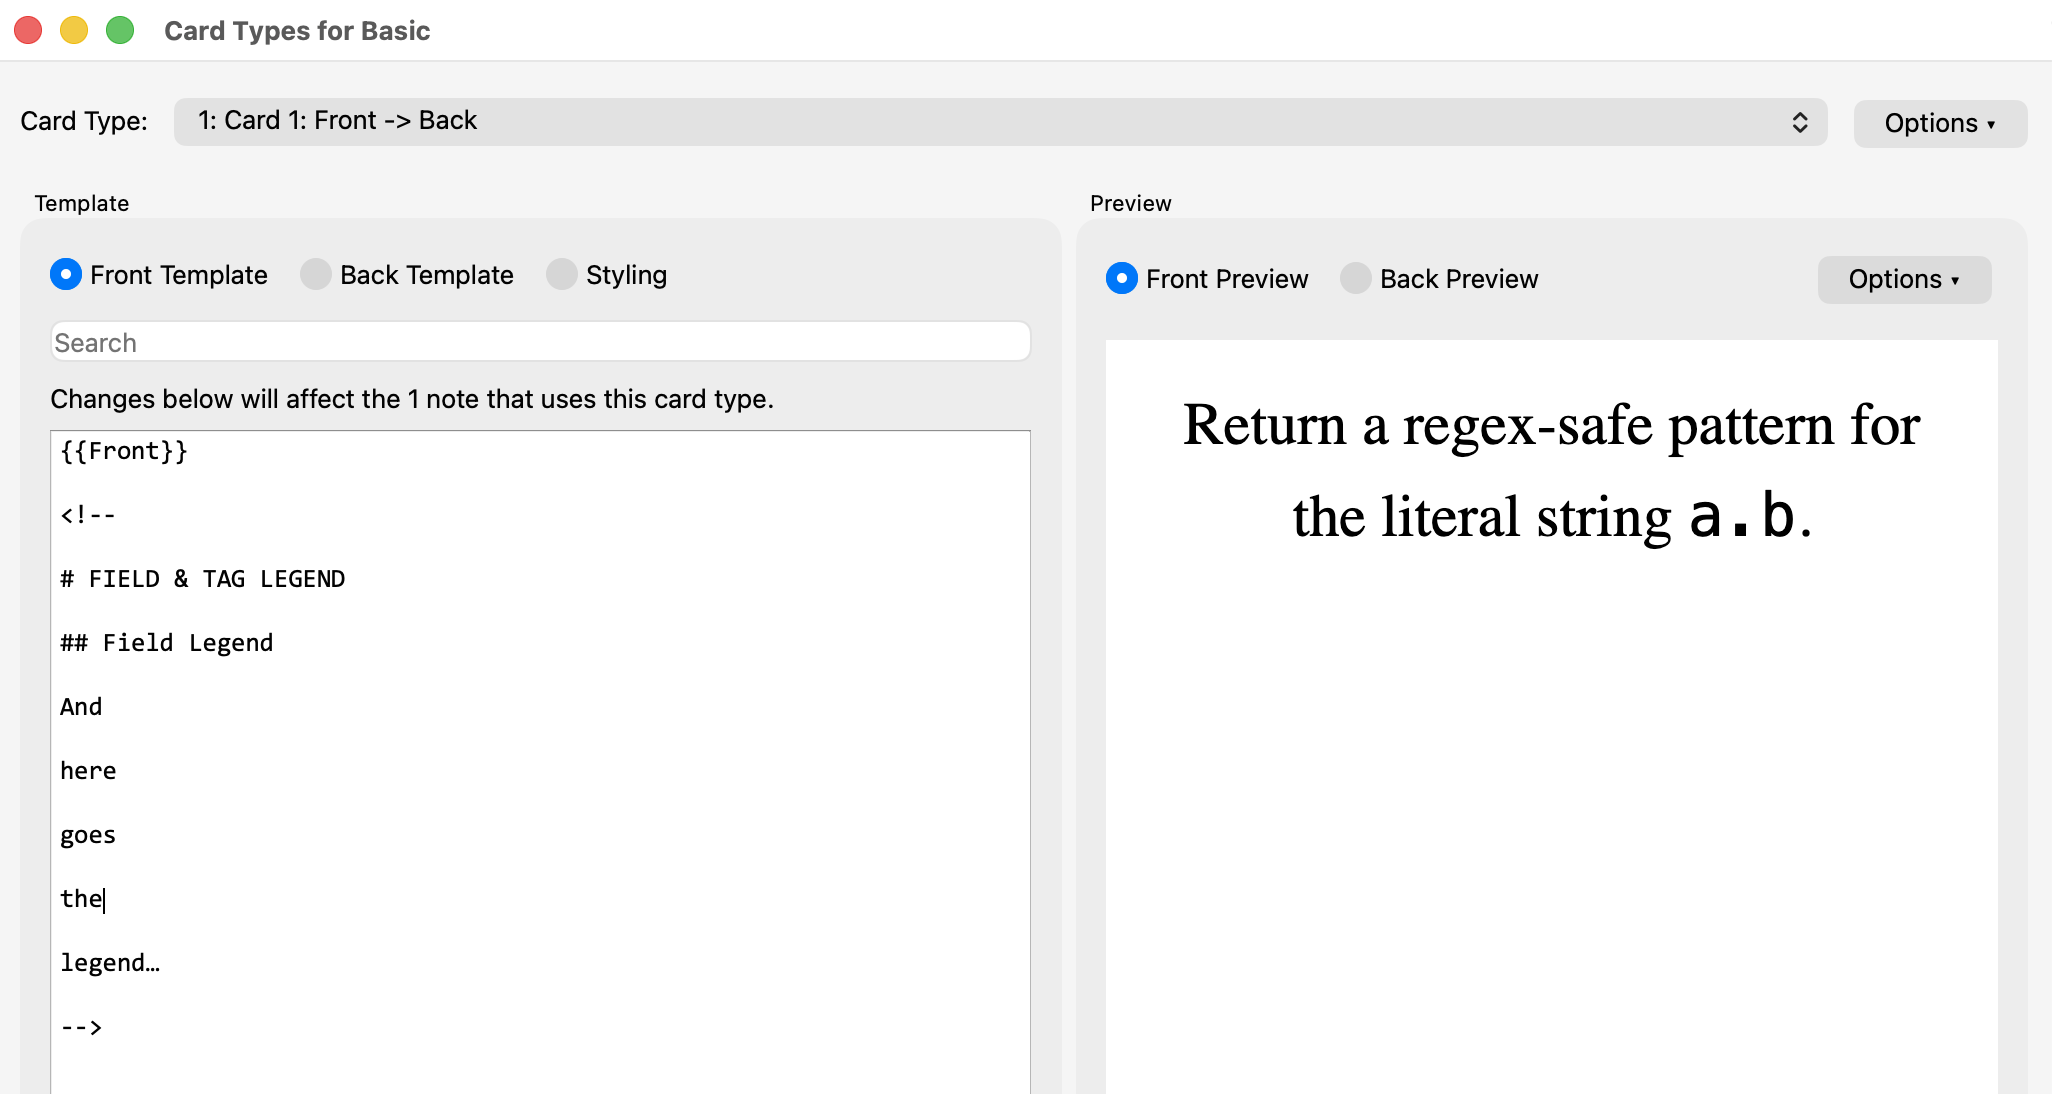
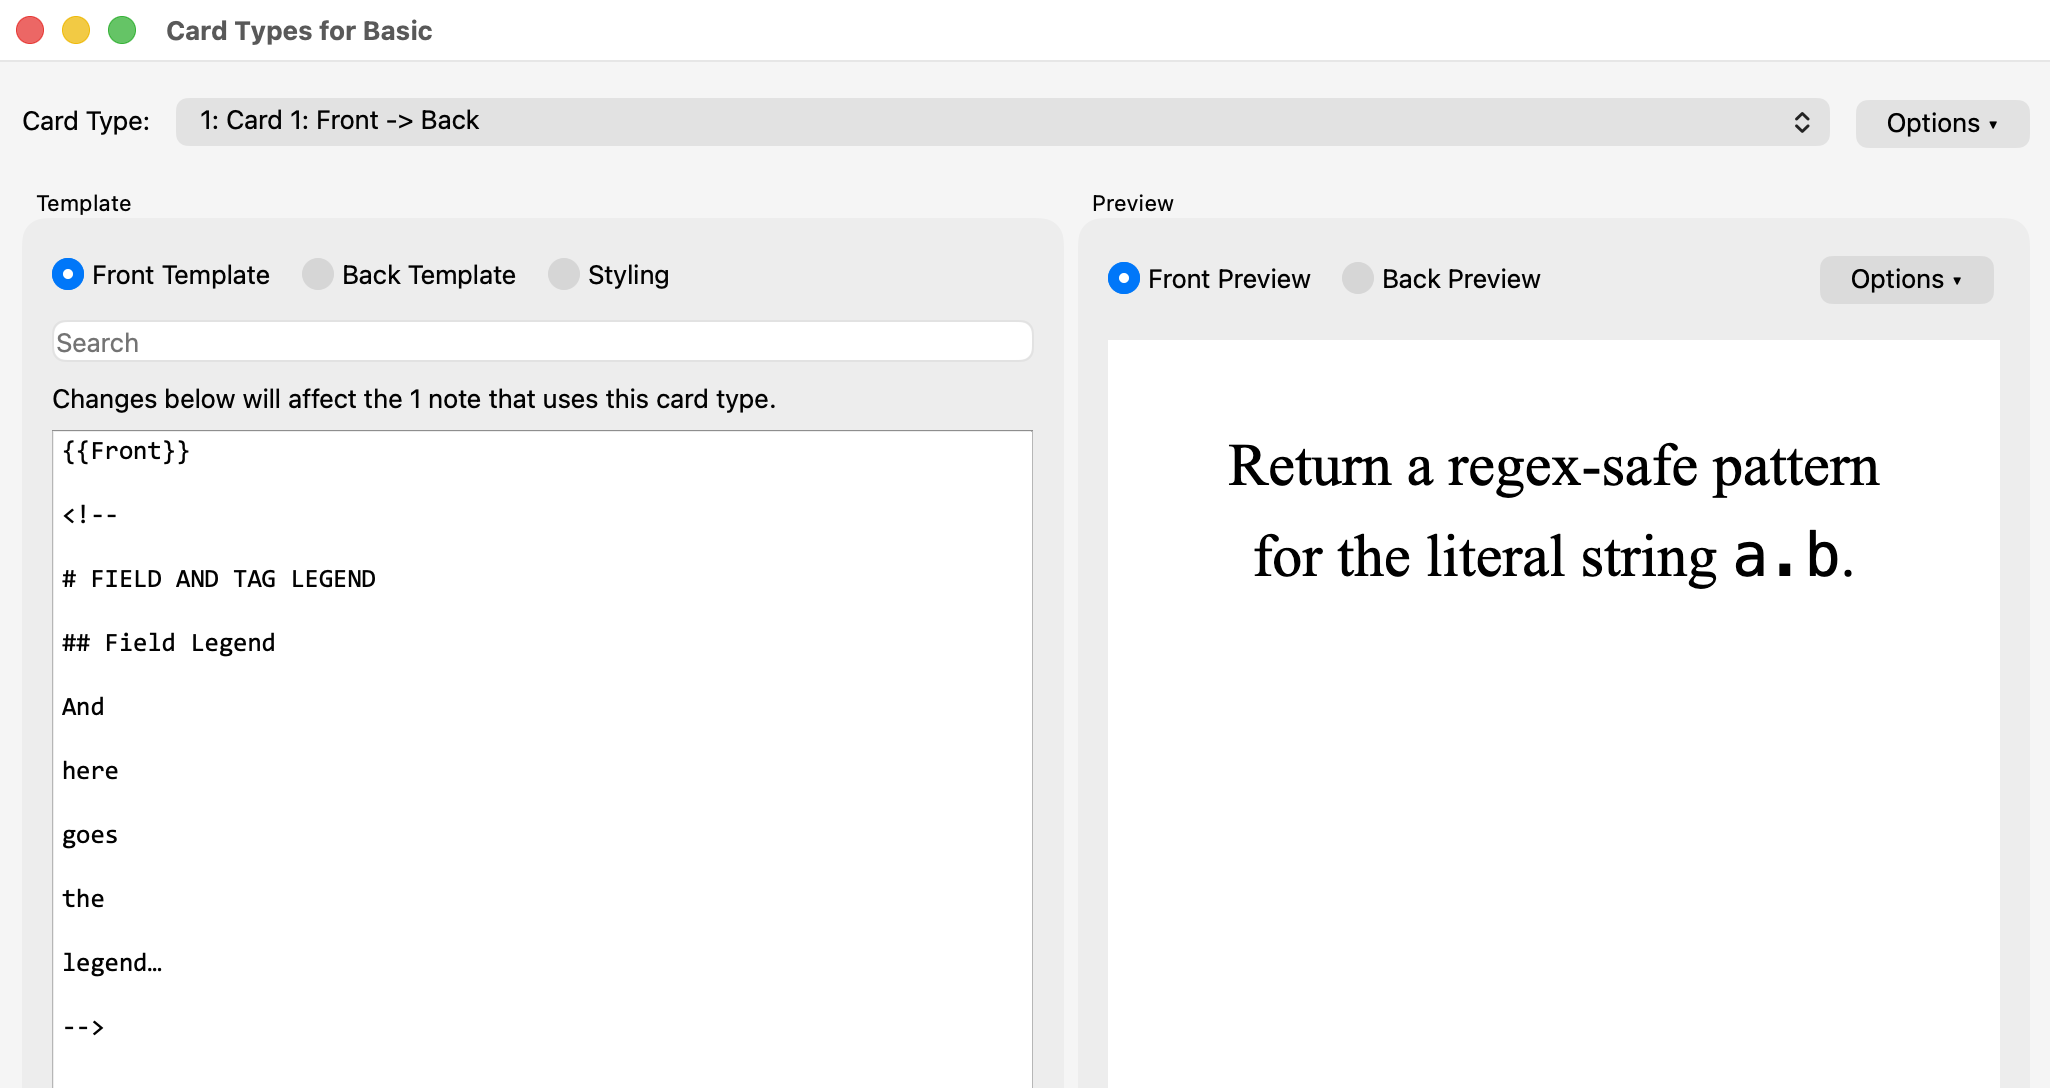
Replace ampersand with "and"

diff --git a/export_field_tag_legend_as_text.py b/export_field_tag_legend_as_text.py
@@ -139,7 +139,7 @@ def on_copy() -> None:
     clipboard.setText(text)
 
     tooltip(
-        "Copied Field & Tag Legend",
+        "Copied Field and Tag Legend",
         parent=mw,
     )
 
@@ -157,7 +157,7 @@ def on_save() -> None:
 
     filename, _selected_filter = QFileDialog.getSaveFileName(
         mw,
-        "Save Field & Tag Legend as Text",
+        "Save Field and Tag Legend as Text",
         str(default_path),
         "Text Files (*.txt)",
     )
@@ -180,7 +180,7 @@ def on_save() -> None:
         return
 
     tooltip(
-        "Saved Field & Tag Legend",
+        "Saved Field and Tag Legend",
         parent=mw,
     )
 
@@ -197,8 +197,8 @@ def apply_shortcuts(config: dict) -> None:
     )
 
 
-copy_action = QAction("Copy Field && Tag Legend as Text", mw)
-save_action = QAction("Save Field && Tag Legend as Text…", mw)
+copy_action = QAction("Copy Field and Tag Legend as Text", mw)
+save_action = QAction("Save Field and Tag Legend as Text…", mw)
 
 qconnect(copy_action.triggered, on_copy)
 qconnect(save_action.triggered, on_save)

diff --git a/README.md b/README.md
@@ -1,25 +1,25 @@
-# Export Field & Tag Legend as Text
+# Export Field and Tag Legend as Text
 
 Larger or more specialized Anki collections often rely on custom fields to organize different kinds of content. As a collection develops, tacit conventions emerge about the meaning and use of those fields and tags. These conventions are essential collection-level metadata for interpreting the collection correctly, not least when notes are assessed with or generated by an LLM.
 
 Ideally this documentation should reside within the collection itself rather than in an external file. One simple way to achieve this is to store a field and tag legend as an HTML comment in a card template: the text remains hidden during review but is easy to inspect or edit and stays with the collection. This add-on exports the complete legend as plain text with a single command, either to the clipboard or to a file.
 
-**Export Field & Tag Legend as Text** is designed to complement **[Selected Notes to Structured Text](https://github.com/schmidhauser/anki-selected-notes-to-structured-text)** and **[Export Tags as Text](https://github.com/schmidhauser/anki-export-tags-as-text)**. The first exports selected notes, the second exports the collection-wide tag inventory, and this add-on exports the conventions that explain the fields and tags.
+**Export Field and Tag Legend as Text** is designed to complement **[Selected Notes to Structured Text](https://github.com/schmidhauser/anki-selected-notes-to-structured-text)** and **[Export Tags as Text](https://github.com/schmidhauser/anki-export-tags-as-text)**. The first exports selected notes, the second exports the collection-wide tag inventory, and this add-on exports the conventions that explain the fields and tags.
 
 ## Installation
 
-Install **Export Field & Tag Legend as Text** from [AnkiWeb](https://ankiweb.net/shared/info/1931887561) using add-on code `1931887561`.
+Install **Export Field and Tag Legend as Text** from [AnkiWeb](https://ankiweb.net/shared/info/1931887561) using add-on code `1931887561`.
 
 ## Usage
 
-<img src="export_field_tag_legend_as_text-1.png" alt="Tools menu with Field & Tag Legend commands" align="right" width="232">
+<img src="export_field_tag_legend_as_text-1.png" alt="Tools menu with Field and Tag Legend commands" align="right" width="232">
 
 Choose either of the following menu items:
 
-* **Tools → Copy Field & Tag Legend as Text**
-* **Tools → Save Field & Tag Legend as Text…**
+* **Tools → Copy Field and Tag Legend as Text**
+* **Tools → Save Field and Tag Legend as Text…**
 
-Both commands export the same legend: **Copy Field & Tag Legend as Text** places it on the clipboard; **Save Field & Tag Legend as Text…** writes it to a UTF-8 text file, by default named `anki-field-tag-legend-YYYY-MM-DD.txt`.
+Both commands export the same legend: **Copy Field and Tag Legend as Text** places it on the clipboard; **Save Field and Tag Legend as Text…** writes it to a UTF-8 text file, by default named `anki-field-tag-legend-YYYY-MM-DD.txt`.
 
 ## Configuration
 
@@ -35,7 +35,7 @@ The default configuration is:
         "card_type": "Card 1",
         "note_type": "Basic"
     },
-    "marker": "# FIELD & TAG LEGEND",
+    "marker": "# FIELD AND TAG LEGEND",
     "shortcut_copy": "",
     "shortcut_save": "Meta+Ctrl+Shift+L"
 }
@@ -51,7 +51,7 @@ The legend must be stored in an HTML comment containing the configured marker:
 
     <!--
 
-    # FIELD & TAG LEGEND
+    # FIELD AND TAG LEGEND
 
     [Legend goes here.]
 
@@ -63,13 +63,13 @@ For safety, if the configured note type or card type cannot be found, the marker
 
 The add-on only reads the template; it does not modify the template or any other part of the collection.
 
-<img src="export_field_tag_legend_as_text-2.png" alt="Field & Tag Legend stored in a card template" width="800">
+<img src="export_field_tag_legend_as_text-2.png" alt="Field and Tag Legend stored in a card template" width="800">
 
 ### Shortcuts
 
-`shortcut_save` sets the shortcut for **Save Field & Tag Legend as Text…** The default shortcut is `Meta+Ctrl+Shift+L` (`⌃⇧⌘L`); set it to `""` to disable it.
+`shortcut_save` sets the shortcut for **Save Field and Tag Legend as Text…** The default shortcut is `Meta+Ctrl+Shift+L` (`⌃⇧⌘L`); set it to `""` to disable it.
 
-`shortcut_copy` sets the shortcut for **Copy Field & Tag Legend as Text**. It is disabled by default.
+`shortcut_copy` sets the shortcut for **Copy Field and Tag Legend as Text**. It is disabled by default.
 
 No restart is required.
 
@@ -84,7 +84,7 @@ For example, the template comment:
 ```html
 <!--
 
-# FIELD & TAG LEGEND
+# FIELD AND TAG LEGEND
 
 ## Field Legend
 
@@ -100,7 +100,7 @@ For example, the template comment:
 is exported as:
 
 ```markdown
-# FIELD & TAG LEGEND
+# FIELD AND TAG LEGEND
 
 ## Field Legend
 

diff --git a/ANKIWEB.md b/ANKIWEB.md
@@ -2,18 +2,18 @@ Larger or more specialized Anki collections often rely on custom fields to organ
 
 Ideally this documentation should reside within the collection itself rather than in an external file. One simple way to achieve this is to store a field and tag legend as an HTML comment in a card template: the text remains hidden during review but is easy to inspect or edit and stays with the collection. This add-on exports the complete legend as plain text with a single command, either to the clipboard or to a file.
 
-**Export Field & Tag Legend as Text** is designed to complement **[Selected Notes to Structured Text](https://ankiweb.net/shared/info/1694585841)** and **[Export Tags as Text](https://ankiweb.net/shared/info/550673409)**. The first exports selected notes, the second exports the collection-wide tag inventory, and this add-on exports the conventions that explain the fields and tags.
+**Export Field and Tag Legend as Text** is designed to complement **[Selected Notes to Structured Text](https://ankiweb.net/shared/info/1694585841)** and **[Export Tags as Text](https://ankiweb.net/shared/info/550673409)**. The first exports selected notes, the second exports the collection-wide tag inventory, and this add-on exports the conventions that explain the fields and tags.
 
-<img src="https://raw.githubusercontent.com/schmidhauser/anki-export-field-tag-legend-as-text/refs/heads/main/export_field_tag_legend_as_text-1.png" alt="Tools menu with Field & Tag Legend commands" align="right" width="232">
+<img src="https://raw.githubusercontent.com/schmidhauser/anki-export-field-tag-legend-as-text/refs/heads/main/export_field_tag_legend_as_text-1.png" alt="Tools menu with Field and Tag Legend commands" align="right" width="232">
 
 ## Usage
 
 Choose either of the following menu items:
 
-* **Tools → Copy Field & Tag Legend as Text**
-* **Tools → Save Field & Tag Legend as Text…**
+* **Tools → Copy Field and Tag Legend as Text**
+* **Tools → Save Field and Tag Legend as Text…**
 
-Both commands export the same legend: **Copy Field & Tag Legend as Text** places it on the clipboard; **Save Field & Tag Legend as Text…** writes it to a UTF-8 text file, by default named `anki-field-tag-legend-YYYY-MM-DD.txt`.
+Both commands export the same legend: **Copy Field and Tag Legend as Text** places it on the clipboard; **Save Field and Tag Legend as Text…** writes it to a UTF-8 text file, by default named `anki-field-tag-legend-YYYY-MM-DD.txt`.
 
 ## Configuration
 
@@ -24,7 +24,7 @@ The legend location, marker, and keyboard shortcuts can be changed under **Tools
             "card_type": "Card 1",
             "note_type": "Basic"
         },
-        "marker": "# FIELD & TAG LEGEND",
+        "marker": "# FIELD AND TAG LEGEND",
         "shortcut_copy": "",
         "shortcut_save": "Meta+Ctrl+Shift+L"
     }
@@ -39,7 +39,7 @@ The legend must be stored in an HTML comment containing the configured marker:
 
     <!--
     
-    # FIELD & TAG LEGEND
+    # FIELD AND TAG LEGEND
     
     [Legend goes here.]
     
@@ -50,12 +50,12 @@ The marker must occur exactly once in the configured front template. The comment
 The add-on only reads the template; it does not modify the template or any other part of the collection.
 
 <p>
-    <img src="https://raw.githubusercontent.com/schmidhauser/anki-export-field-tag-legend-as-text/refs/heads/main/export_field_tag_legend_as_text-2.png" alt="Field & Tag Legend stored in a card template" width="800">
+    <img src="https://raw.githubusercontent.com/schmidhauser/anki-export-field-tag-legend-as-text/refs/heads/main/export_field_tag_legend_as_text-2.png" alt="Field and Tag Legend stored in a card template" width="800">
 </p>
 
 ### Shortcuts
 
-`shortcut_save` sets the shortcut for **Save Field & Tag Legend as Text…** The default shortcut is `Meta+Ctrl+Shift+L` (`⌃⇧⌘L`); set it to `""` to disable it. `shortcut_copy` sets the shortcut for **Copy Field & Tag Legend as Text**. It is disabled by default. No restart is required.
+`shortcut_save` sets the shortcut for **Save Field and Tag Legend as Text…** The default shortcut is `Meta+Ctrl+Shift+L` (`⌃⇧⌘L`); set it to `""` to disable it. `shortcut_copy` sets the shortcut for **Copy Field and Tag Legend as Text**. It is disabled by default. No restart is required.
 
 ## Format
 
@@ -65,7 +65,7 @@ For example, the template comment:
 
     <!--
     
-    # FIELD & TAG LEGEND
+    # FIELD AND TAG LEGEND
     
     ## Field Legend
     
@@ -79,7 +79,7 @@ For example, the template comment:
 
 is exported as:
 
-    # FIELD & TAG LEGEND
+    # FIELD AND TAG LEGEND
     
     ## Field Legend
     

diff --git a/config.md b/config.md
@@ -16,7 +16,7 @@ The legend must be stored in an HTML comment containing the configured `marker`:
 
     <!--
 
-    # FIELD & TAG LEGEND
+    # FIELD AND TAG LEGEND
 
     [Legend goes here.]
 
@@ -28,9 +28,9 @@ The add-on only reads the template; it does not modify the template or any other
 
 #### Shortcuts
 
-`shortcut_save` sets the shortcut for **Save Field & Tag Legend as Text…** The default shortcut is `Meta+Ctrl+Shift+L` (`⌃⇧⌘L`); set it to `""` to disable it.
+`shortcut_save` sets the shortcut for **Save Field and Tag Legend as Text…** The default shortcut is `Meta+Ctrl+Shift+L` (`⌃⇧⌘L`); set it to `""` to disable it.
 
-`shortcut_copy` sets the shortcut for **Copy Field & Tag Legend as Text**. It is disabled by default.
+`shortcut_copy` sets the shortcut for **Copy Field and Tag Legend as Text**. It is disabled by default.
 
 No restart is required.
 
